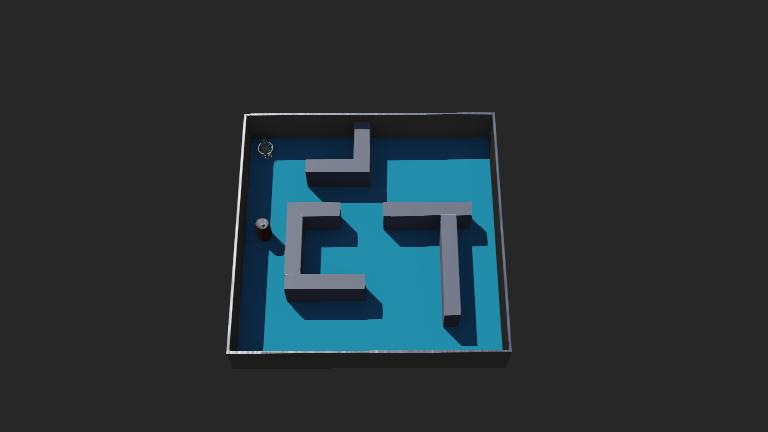
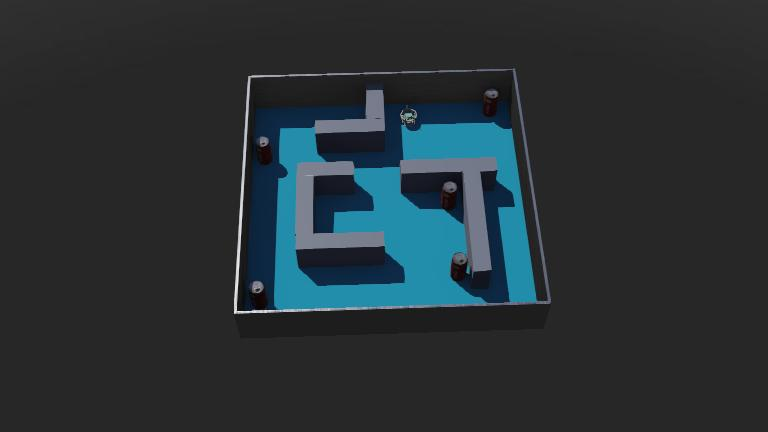
drawing obstacles location and robot path on display device

Changed region(s): [[0.2812, 0.1505, 0.7188, 0.8426]]

diff --git a/Project_3/controllers/main/visualizer.py b/Project_3/controllers/main/visualizer.py
@@ -3,7 +3,6 @@ import os, sys, numpy as np
 
 sys.path.insert(0, os.path.dirname(os.path.dirname(os.path.abspath(__file__))))
 from main.deliberative_layer import ObstaclesMap, Rectangle
-from main.constants import obstacle_map
 from main.robot import Robot
 
 WIDTH, HEIGHT = 256, 256
@@ -42,21 +41,35 @@ class Visualizer:
         height = self.__map_to_display(y_max - y_min, False)
         self.__display.fillRectangle(x, HEIGHT - y, width, height)
 
-    def draw_detected_objects(self, location: Tuple):
-        self.__set_display_color(0xFF00FF)
-        self.__display.fillOval(*location, 7, 7)
+    def draw_robot(self):
+        self.__display.setColor(0xFF0000)
+        self.__display.setOpacity(0.15)
 
-    def draw_obstacles(self) -> None:
-        self.__set_display_color(0x0000FF)
+        x = self.__map_to_display(self.__robot.get_current_position()[0], True)
+        y = self.__map_to_display(self.__robot.get_current_position()[1], False)
+        self.__display.fillOval(x, HEIGHT - y, 1, 1)
+
+    def draw_detected_objects(self, location: Tuple):
+        self.__display.setColor(0xFF00FF)
+        self.__display.setOpacity(0.3)
+
+        x = (
+            self.__robot.get_current_position()[0]
+            + location[0] * np.cos(self.__robot.get_current_angle())
+            - location[1] * np.sin(self.__robot.get_current_angle())
+        )
+        x = self.__map_to_display(x, True)
+
+        y = (
+            self.__robot.get_current_position()[1]
+            + location[0] * np.sin(self.__robot.get_current_angle())
+            + location[1] * np.cos(self.__robot.get_current_angle())
+        )
+        y = self.__map_to_display(y, False)
+
+        self.__display.fillOval(x, HEIGHT - y, 7, 7)
+
+    def draw_rectangular_obstacles(self) -> None:
+        self.__display.setColor(0x0000FF)
         for obstacle in self.__obstacle_map:
             self.__draw_obstacle(obstacle)
-
-    def __set_display_color(self, color: int) -> None:
-        """Color is given as a hexadecimal number. For example, 0xFF00FF is purple."""
-        self.__display.setColor(color)
-
-
-if __name__ == "__main__":
-    visualizer = Visualizer(obstacle_map)
-    visualizer.draw_obstacles()
-    # visualizer.draw_detected_objects()

diff --git a/Project_3/controllers/main/main.py b/Project_3/controllers/main/main.py
@@ -44,7 +44,7 @@ if __name__ == "__main__":
     speed_controller = APFController(robot, deliberative_layer)
     object_recognizer = ObjectRecognizer()
     visualizer = Visualizer(robot, obstacle_map)
-    visualizer.draw_obstacles()
+    visualizer.draw_rectangular_obstacles()
 
     while robot.simulator_step() != -1:
         if deliberative_layer.get_path() is None:
@@ -57,6 +57,7 @@ if __name__ == "__main__":
 
         left_speed, right_speed = speed_controller.compute_motors_speed()
         robot.set_motors_speeds(left_speed, right_speed)
+        visualizer.draw_robot()
 
         if ENABLE_OBJECT_DETECTION:
             image = robot.get_camera_image()
@@ -64,4 +65,4 @@ if __name__ == "__main__":
             if detected_objects is not None:
                 for object_location in detected_objects:
                     logging.info(f"Object detected at: {object_location}")
-                    visualizer.draw_detected_objects((256 // 2, 256 // 2))
+                    visualizer.draw_detected_objects(object_location)
